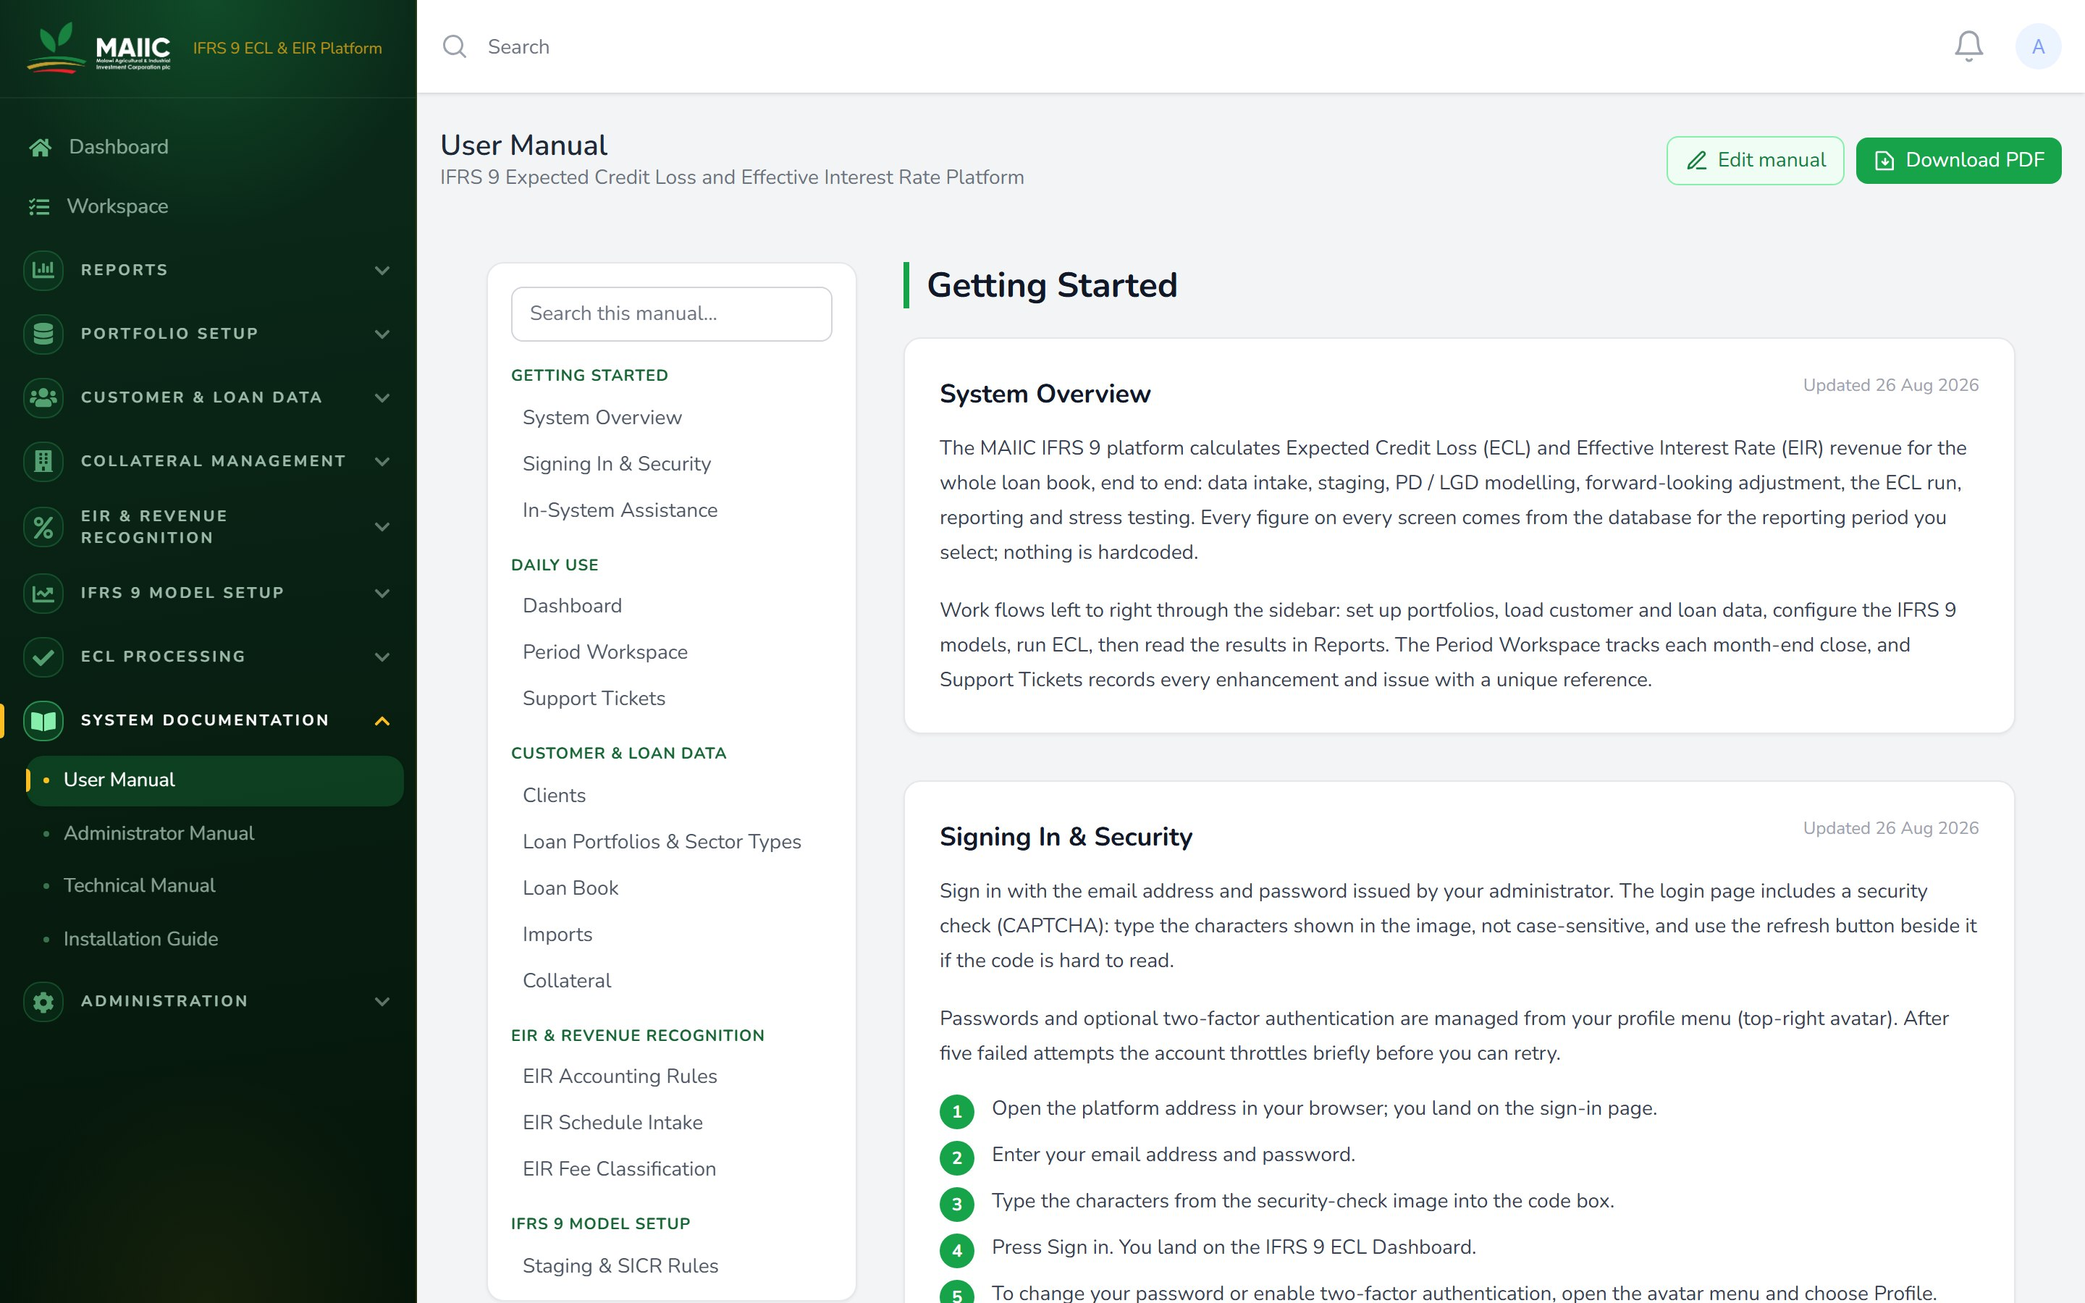
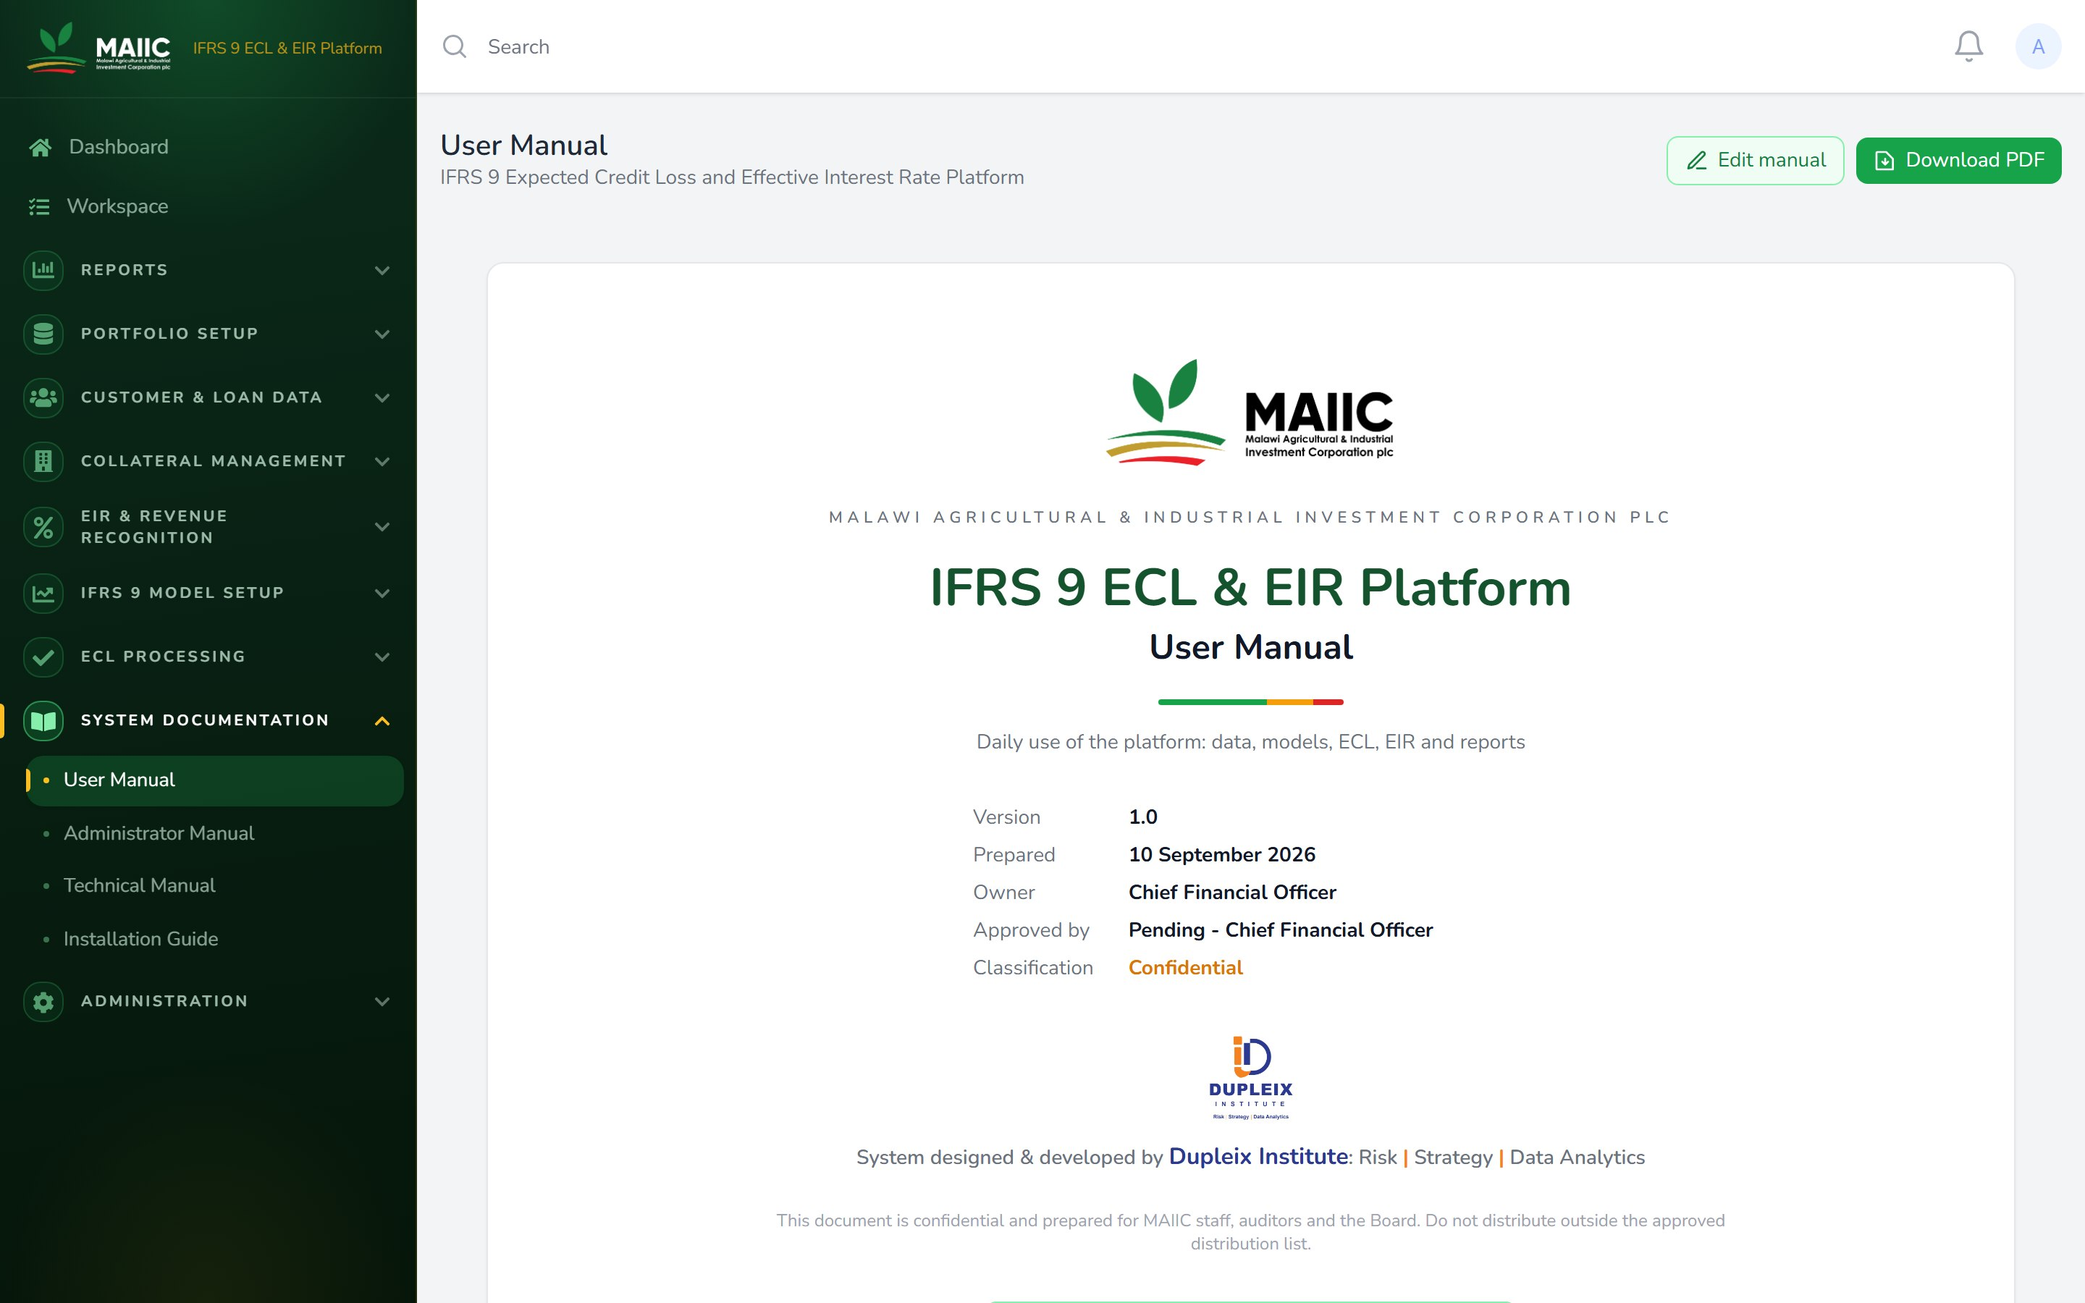
Show the cover page and document control on the documentation web pages
The four System Documentation screens (User Manual, Administrator
Manual, Technical Manual, Installation Guide) now open with the same
cover as their PDFs: MAIIC logo, institution name, platform and document
titles, tricolour rule, subtitle, version, prepared date, owner,
approver and classification, the Dupleix Institute mark and the
"designed and developed by" line, and the confidentiality note. A button
below the cover expands the document control table, revision history,
distribution list, how to use this document and the who-reads-what role
map. One shared component (resources/js/Shared/DocumentCover.vue) fed by
the same App\Support\DocumentFrontMatter data the PDFs use, so the two
never disagree.

- HelpController and SystemDocsController pass the front matter to the
  readers; the repository documents show the chapter revision date as
  the prepared date.
- Logo URLs travel with the front matter.
- Screenshot list gains the four documentation pages; the Administrator
  Manual article on the Technical Manual and Installation Guide carries
  the new figure (seed file and live database).

Verified on screen for all four pages; 15 documentation tests passing
(58 assertions); build clean.

diff --git a/resources/js/Shared/DocumentCover.vue b/resources/js/Shared/DocumentCover.vue
@@ -1,0 +1,133 @@
+<script setup>
+import { ref } from 'vue'
+
+// On-screen cover and document control for the four System Documentation
+// pages (Ticket #011). Mirrors the PDF front matter: same data
+// (App\Support\DocumentFrontMatter), same order: cover, document control,
+// revision history, distribution, how to use, who reads what.
+const props = defineProps({
+    front: { type: Object, required: true },
+})
+
+const showControl = ref(false)
+
+const controlRows = () => [
+    ['Document', `${props.front.company} ${props.front.platform} ${props.front.title}`],
+    ['Contract reference', `Implementation, Licence and Support Agreement (19 August 2026), ${props.front.deliverable}`],
+    ['Version', props.front.version],
+    ['Status', props.front.status],
+    ['Prepared date', props.front.preparedDate],
+    ['Owner', props.front.owner],
+    ['Approved by', props.front.approvedBy],
+    ['Classification', props.front.classification],
+    ['Developed by', props.front.developedBy],
+    ['Applies to', props.front.appliesTo],
+    ['Review cycle', props.front.reviewCycle],
+    ['Retention', props.front.retention],
+]
+</script>
+
+<template>
+    <div class="mb-8">
+        <!-- Cover -->
+        <section class="maiic-panel px-6 py-12 text-center sm:py-16">
+            <img v-if="front.logoUrl" :src="front.logoUrl" alt="MAIIC" class="mx-auto mb-6 h-20 w-auto"/>
+            <p class="text-[11px] font-semibold uppercase tracking-[0.3em] text-gray-500">{{ front.institution }}</p>
+            <h1 class="mt-5 text-3xl font-extrabold text-maiic-900 sm:text-4xl">{{ front.platform }}</h1>
+            <p class="mt-1 text-xl font-bold text-gray-900 sm:text-2xl">{{ front.title }}</p>
+            <div class="mx-auto mt-5 flex h-1 w-32 overflow-hidden rounded-full">
+                <span class="w-7/12 bg-maiic-600"></span>
+                <span class="w-3/12 bg-maiicgold-500"></span>
+                <span class="w-2/12 bg-red-600"></span>
+            </div>
+            <p class="mt-4 text-sm text-gray-500">{{ front.subtitle }}</p>
+
+            <dl class="mx-auto mt-8 grid max-w-sm grid-cols-[auto,1fr] gap-x-6 gap-y-1.5 text-left text-sm">
+                <dt class="text-gray-500">Version</dt><dd class="font-bold text-gray-900">{{ front.version }}</dd>
+                <dt class="text-gray-500">Prepared</dt><dd class="font-bold text-gray-900">{{ front.preparedDate }}</dd>
+                <dt class="text-gray-500">Owner</dt><dd class="font-bold text-gray-900">{{ front.owner }}</dd>
+                <dt class="text-gray-500">Approved by</dt><dd class="font-bold text-gray-900">{{ front.approvedBy }}</dd>
+                <dt class="text-gray-500">Classification</dt><dd class="font-bold text-amber-600">{{ front.classification }}</dd>
+            </dl>
+
+            <div class="mt-9">
+                <img v-if="front.dupleixLogoUrl" :src="front.dupleixLogoUrl" alt="Dupleix Institute" class="mx-auto mb-2 h-16 w-auto"/>
+                <p class="text-sm font-semibold text-gray-500">
+                    System designed &amp; developed by <span class="text-base font-bold" style="color:#2B3990">Dupleix Institute</span>:
+                    Risk <span class="font-bold" style="color:#F58220">|</span> Strategy <span class="font-bold" style="color:#F58220">|</span> Data Analytics
+                </p>
+            </div>
+            <p class="mx-auto mt-6 max-w-2xl text-xs text-gray-400">
+                This document is confidential and prepared for {{ front.company }} {{ front.audience }}. Do not distribute outside the approved distribution list.
+            </p>
+
+            <button @click="showControl = !showControl"
+                    class="mt-8 inline-flex items-center gap-1.5 rounded-lg border border-maiic-300 bg-maiic-50 px-3 py-1.5 text-sm font-medium text-maiic-700 hover:bg-maiic-100">
+                <svg class="h-4 w-4 transition" :class="showControl ? 'rotate-90' : ''" viewBox="0 0 24 24" fill="none" stroke="currentColor" stroke-width="2" stroke-linecap="round" stroke-linejoin="round"><path d="m9 18 6-6-6-6"/></svg>
+                {{ showControl ? 'Hide document control' : 'Document control, how to use and who reads what' }}
+            </button>
+        </section>
+
+        <!-- Document control, revision history, distribution, how to use, role map -->
+        <section v-if="showControl" class="mt-4 grid grid-cols-1 gap-4 lg:grid-cols-2">
+            <div class="maiic-panel p-5">
+                <h2 class="maiic-section-title !mt-0">Document control</h2>
+                <table class="w-full text-sm">
+                    <tbody>
+                        <tr v-for="r in controlRows()" :key="r[0]" class="border-t border-gray-100">
+                            <td class="w-2/5 bg-maiic-50/60 px-3 py-1.5 font-semibold text-maiic-800">{{ r[0] }}</td>
+                            <td class="px-3 py-1.5 text-gray-700">{{ r[1] }}</td>
+                        </tr>
+                    </tbody>
+                </table>
+
+                <h2 class="maiic-section-title">Revision history</h2>
+                <div class="maiic-table-wrap">
+                    <table class="maiic-table">
+                        <thead><tr><th>Version</th><th>Date</th><th>Author</th><th>Summary of change</th></tr></thead>
+                        <tbody>
+                            <tr v-for="rev in front.revisions" :key="rev[0] + rev[1]">
+                                <td>{{ rev[0] }}</td><td>{{ rev[1] }}</td><td>{{ rev[2] }}</td><td>{{ rev[3] }}</td>
+                            </tr>
+                        </tbody>
+                    </table>
+                </div>
+
+                <h2 class="maiic-section-title">Distribution list</h2>
+                <div class="maiic-table-wrap">
+                    <table class="maiic-table">
+                        <thead><tr><th>Recipient</th><th>Role</th><th>Copy</th></tr></thead>
+                        <tbody>
+                            <tr v-for="d in front.distribution" :key="d[0]">
+                                <td>{{ d[0] }}</td><td>{{ d[1] }}</td><td>{{ d[2] }}</td>
+                            </tr>
+                        </tbody>
+                    </table>
+                </div>
+            </div>
+
+            <div class="maiic-panel p-5">
+                <h2 class="maiic-section-title !mt-0">How to use this document</h2>
+                <p class="text-sm text-gray-700">{{ front.howToUse[0] }}</p>
+                <ul class="mt-3 list-disc space-y-1.5 pl-5 text-sm text-gray-700">
+                    <li v-for="tip in front.howToUse[1]" :key="tip">{{ tip }}</li>
+                </ul>
+                <div class="mt-4 rounded-r-lg border-l-4 border-maiicgold-500 bg-maiic-50 px-4 py-3 text-sm text-gray-700">
+                    {{ front.howToUse[2] }}
+                </div>
+
+                <h2 class="maiic-section-title">Who reads what</h2>
+                <div class="maiic-table-wrap">
+                    <table class="maiic-table">
+                        <thead><tr><th class="w-2/5">If you are a...</th><th>Focus on</th></tr></thead>
+                        <tbody>
+                            <tr v-for="r in front.roles" :key="r[0]">
+                                <td class="font-semibold text-maiic-800">{{ r[0] }}</td><td>{{ r[1] }}</td>
+                            </tr>
+                        </tbody>
+                    </table>
+                </div>
+            </div>
+        </section>
+    </div>
+</template>

diff --git a/resources/js/Pages/Docs/Show.vue b/resources/js/Pages/Docs/Show.vue
@@ -1,6 +1,7 @@
 <script setup>
 import { ref, computed } from 'vue'
 import AppLayout from '@/Layouts/AppLayout.vue'
+import DocumentCover from '@/Shared/DocumentCover.vue'
 
 // Repository-authored documentation reader (Ticket #011): the Technical
 // Manual and the Installation Guide. Chapters arrive as pre-rendered HTML
@@ -8,6 +9,7 @@ import AppLayout from '@/Layouts/AppLayout.vue'
 // appendix read from the connected database.
 const props = defineProps({
     doc: { type: String, default: 'technical' },
+    front: { type: Object, default: null },
     title: { type: String, default: '' },
     subtitle: { type: String, default: '' },
     deliverable: { type: String, default: '' },
@@ -62,6 +64,8 @@ function jump(id) {
 
         <div class="py-8">
             <div class="mx-auto max-w-7xl px-4 sm:px-6 lg:px-8">
+                <DocumentCover v-if="front" :front="front"/>
+
                 <div class="flex gap-8">
 
                     <!-- Contents rail -->
@@ -95,17 +99,6 @@ function jump(id) {
 
                     <!-- Document body -->
                     <article class="min-w-0 flex-1 space-y-8">
-                        <div class="maiic-panel p-5">
-                            <p class="maiic-kpi-label">Document control</p>
-                            <div class="grid grid-cols-1 gap-2 text-sm text-gray-700 sm:grid-cols-2">
-                                <p><span class="font-semibold">Client:</span> {{ company }}</p>
-                                <p><span class="font-semibold">Prepared by:</span> Dupleix Institute</p>
-                                <p class="sm:col-span-2"><span class="font-semibold">Deliverable:</span> {{ deliverable }}</p>
-                                <p><span class="font-semibold">Source:</span> repository Markdown, rendered live</p>
-                                <p><span class="font-semibold">Last revised:</span> {{ lastRevised || 'not yet authored' }}</p>
-                            </div>
-                        </div>
-
                         <div v-if="!chapters.length" class="maiic-panel p-10 text-center font-semibold text-gray-400">
                             This document has no chapters yet. Developers add Markdown files under docs/manuals.
                         </div>

diff --git a/resources/js/Pages/Help/Index.vue b/resources/js/Pages/Help/Index.vue
@@ -2,9 +2,11 @@
 import { ref, computed } from 'vue'
 import { Link } from '@inertiajs/vue3'
 import AppLayout from '@/Layouts/AppLayout.vue'
+import DocumentCover from '@/Shared/DocumentCover.vue'
 
 const props = defineProps({
     company: { type: String, default: 'MAIIC' },
+    front: { type: Object, default: null },
     manual: { type: String, default: 'user' },
     title: { type: String, default: 'User Manual' },
     subtitle: { type: String, default: '' },
@@ -61,6 +63,8 @@ function jump(slug) {
 
         <div class="py-8">
             <div class="mx-auto max-w-7xl px-4 sm:px-6 lg:px-8">
+                <DocumentCover v-if="front" :front="front"/>
+
                 <div class="flex gap-8">
 
                     <!-- TOC rail -->

diff --git a/database/seeders/data/help_admin_content.php b/database/seeders/data/help_admin_content.php
@@ -182,7 +182,8 @@ return [
             ],
         ],
         'Technical Manual and Installation Guide' => [
-            'body' => '<p>The Technical Manual and the Installation Guide are written as chapter files in the application repository, so they are versioned with the code. They are rendered live under System Documentation with a contents rail and a PDF download, and the Technical Manual carries a schema appendix read from the connected database at render time. Developers update the chapter files in the same change as the code they describe; administrators do not edit them in the application.</p>',
+            'body' => '<p>The Technical Manual and the Installation Guide are written as chapter files in the application repository, so they are versioned with the code. They are rendered live under System Documentation with a cover page, document control, a contents rail and a PDF download, and the Technical Manual carries a schema appendix read from the connected database at render time. Developers update the chapter files in the same change as the code they describe; administrators do not edit them in the application.</p>',
+            'images' => ['docs-technical' => 'The Technical Manual with its cover page and document control'],
             'routes' => ['docs.technical', 'docs.installation'],
         ],
     ],

diff --git a/app/Http/Controllers/SystemDocsController.php b/app/Http/Controllers/SystemDocsController.php
@@ -70,13 +70,18 @@ class SystemDocsController extends Controller
     private function show(string $doc)
     {
         $meta = self::DOCS[$doc];
+        $company = $this->company();
+        $front = DocumentFrontMatter::for($doc, $company, now()->format('d F Y'));
+        $front['preparedDate'] = $this->lastRevised($doc) ?? $front['preparedDate'];
+        $front['revisions'][0][1] = $front['preparedDate'];
 
         return Inertia::render('Docs/Show', [
             'doc' => $doc,
+            'front' => $front,
             'title' => $meta['title'],
             'subtitle' => $meta['subtitle'],
             'deliverable' => $meta['deliverable'],
-            'company' => $this->company(),
+            'company' => $company,
             'pdfRoute' => route('docs.' . $doc . '.pdf'),
             'chapters' => $this->chapters($doc),
             'schema' => $meta['schema'] ? $this->liveSchema() : [],

diff --git a/tests/Feature/HelpManualTest.php b/tests/Feature/HelpManualTest.php
@@ -139,6 +139,8 @@ class HelpManualTest extends TestCase
         $props = $admin->viewData('page')['props'];
         $this->assertSame('admin', $props['manual']);
         $this->assertSame('Administrator Manual', $props['title']);
+        $this->assertSame('Administrator Manual', $props['front']['title']);
+        $this->assertSame('Confidential', $props['front']['classification']);
         $slugs = collect($props['categories'])->flatMap(fn ($c) => collect($c['articles'])->pluck('slug'));
         $this->assertTrue($slugs->contains('closing-a-financial-period-test'));
         $this->assertFalse($slugs->contains('running-the-ecl-calculation'), 'User Manual article leaked into the Administrator Manual.');

diff --git a/tests/Feature/SystemDocsTest.php b/tests/Feature/SystemDocsTest.php
@@ -30,6 +30,9 @@ class SystemDocsTest extends TestCase
         $response->assertOk();
         $props = $response->viewData('page')['props'];
         $this->assertSame('technical', $props['doc']);
+        $this->assertSame('Technical Manual', $props['front']['title']);
+        $this->assertSame('Head of ICT', $props['front']['owner']);
+        $this->assertNotEmpty($props['front']['distribution']);
         $this->assertNotEmpty($props['chapters'], 'docs/manuals/technical has no chapters.');
         $first = $props['chapters'][0];
         $this->assertStringContainsString('<h2 id="' . $first['slug'] . '">', $first['html']);

diff --git a/app/Console/Commands/CaptureManualScreenshotsCommand.php b/app/Console/Commands/CaptureManualScreenshotsCommand.php
@@ -70,6 +70,9 @@ class CaptureManualScreenshotsCommand extends Command
         'accounting.financial_periods.index' => 'financial-periods',
         'audit-trail.index'           => 'audit-trail',
         'help.index'                  => 'help',
+        'help.admin'                  => 'help-admin',
+        'docs.technical'              => 'docs-technical',
+        'docs.installation'           => 'docs-installation',
         'help.manage.index'           => 'help-manage',
         'license.index'               => 'license',
         'eir-data.index'              => 'eir-data',

diff --git a/app/Support/DocumentFrontMatter.php b/app/Support/DocumentFrontMatter.php
@@ -21,6 +21,8 @@ class DocumentFrontMatter
             'institution' => strcasecmp(trim($company), 'MAIIC') === 0
                 ? 'Malawi Agricultural & Industrial Investment Corporation plc'
                 : $company,
+            'logoUrl' => asset('images/maiic-logo.png'),
+            'dupleixLogoUrl' => asset('images/dupleix-institute.png'),
             'platform' => 'IFRS 9 ECL & EIR Platform',
             'platformLong' => 'IFRS 9 Expected Credit Loss and Effective Interest Rate platform',
             'version' => self::VERSION,

diff --git a/app/Http/Controllers/HelpController.php b/app/Http/Controllers/HelpController.php
@@ -53,9 +53,11 @@ class HelpController extends Controller
     private function reader(string $manual)
     {
         $meta = self::MANUALS[$manual];
+        $company = $this->company();
 
         return Inertia::render('Help/Index', [
-            'company' => $this->company(),
+            'company' => $company,
+            'front' => DocumentFrontMatter::for($manual, $company, now()->format('d F Y')),
             'manual' => $manual,
             'title' => $meta['title'],
             'subtitle' => $meta['subtitle'],
